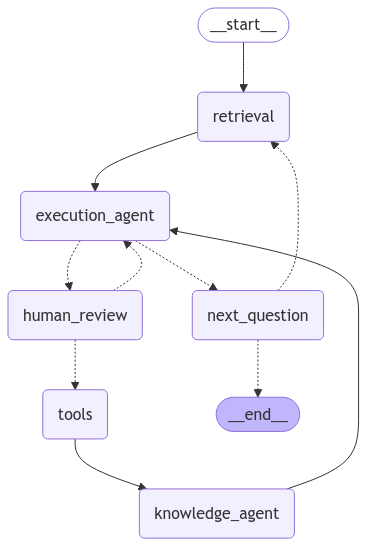
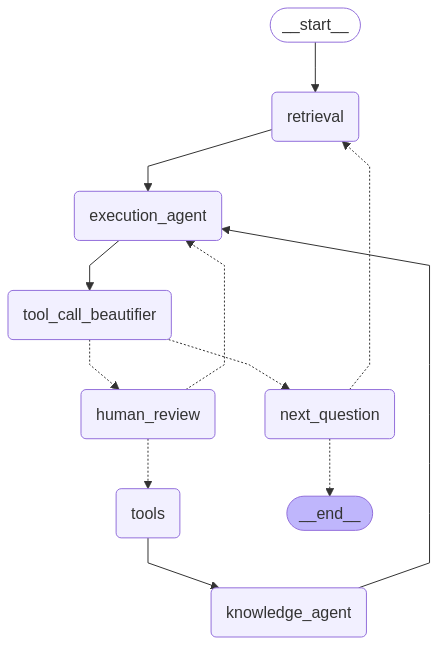
feat: добавил ToolCallBeautifier

diff --git a/nodes/beautifier.py b/nodes/beautifier.py
@@ -1,0 +1,39 @@
+from pathlib import Path
+
+from langchain_core.prompts import ChatPromptTemplate
+from langchain_openai import ChatOpenAI
+
+from state import AGIState
+
+
+class ToolCallBeautifier:
+    def __init__(self):
+        self._model = self._build_prompt_template() | ChatOpenAI(
+            model=self._openai_model, base_url=self._openai_base_url
+        )
+
+    def __call__(self, state: AGIState) -> AGIState | None:
+        last_message = state["messages"][-1]
+        if len(last_message.tool_calls) != 0:  # type: ignore
+            tool_call = last_message.tool_calls[-1]  # type: ignore
+            last_message.content = self._model.invoke(dict(tool_call)).content
+
+            return {"messages": [last_message]}  # type: ignore
+
+    @classmethod
+    def _build_prompt_template(cls) -> ChatPromptTemplate:
+        assert (
+            cls._prompt_path.exists()
+        ), f"Can not load prompt from path: {cls._prompt_path}."
+
+        with open(cls._prompt_path) as src:
+            prompt = src.read()
+
+        return ChatPromptTemplate.from_messages(
+            [("system", prompt), ("placeholder", "{messages}")]
+        )
+
+    _prompt_path = Path("prompts/tool_call_beautifier.txt")
+
+    _openai_base_url = "https://api.proxyapi.ru/openai/v1"
+    _openai_model = "gpt-3.5-turbo"

diff --git a/susu_agi.py b/susu_agi.py
@@ -8,6 +8,7 @@ from langgraph.prebuilt import ToolNode
 from langgraph.types import Command
 from typing_extensions import Literal
 
+from nodes.beautifier import ToolCallBeautifier
 from nodes.execution_agent import ExecutionAgent
 from nodes.human import QuestionBuilder, ReviewerBuilder
 from nodes.knowledge import KnowledgeRetriever, KnowledgeSaver
@@ -35,13 +36,15 @@ class SUSUAGI:
         builder.add_node("retrieval", KnowledgeRetriever())
         builder.add_node("next_question", question_node_builder.build())
         builder.add_node("execution_agent", ExecutionAgent(self._tools))
+        builder.add_node("tool_call_beautifier", ToolCallBeautifier())
         builder.add_node("tools", ToolNode(tools=self._tools))
         builder.add_node("human_review", review_node_builder.build())
         builder.add_node("knowledge_agent", KnowledgeSaver())
 
         builder.add_edge(START, "retrieval")
         builder.add_edge("retrieval", "execution_agent")
-        builder.add_conditional_edges("execution_agent", _route_after_llm)
+        builder.add_edge("execution_agent", "tool_call_beautifier")
+        builder.add_conditional_edges("tool_call_beautifier", _route_after_llm)
         builder.add_edge("tools", "knowledge_agent")
         builder.add_edge("knowledge_agent", "execution_agent")
 

diff --git a/main.py b/main.py
@@ -20,7 +20,7 @@ if __name__ == "__main__":
         if (next_node := agi.get_next_node_name()) is None:
             break
 
-        print(output.content or output.tool_calls)  # type: ignore
+        print(output.content)
         match next_node:
             case "human_review":
                 feedback = input("FEEDBACK> ")
